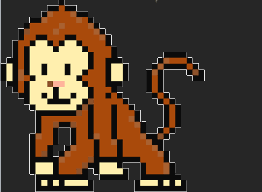
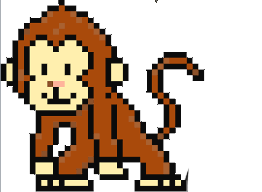
testing shootingEnemy

diff --git a/ArcadeGame/src/DrawingSurface.java b/ArcadeGame/src/DrawingSurface.java
@@ -22,15 +22,11 @@ import java.io.Serializable;
 public class DrawingSurface extends PApplet implements Serializable{
 
 	private Leaderboard leaderboard;
-	private BufferedWriter writer;
-	private FileWriter fileWriter; 
-	private Collider collider1;
 	private MobileEnemy mobileEnemy;
 	private ShootingPlayer player;
 	private Lava lava;
 	private Barrel barrel; 
-	private MobileEnemy enemy1;
-	private ShootingEnemy enemy2;
+	private ShootingEnemy shootingEnemy;
 	private SideShooter sideShooter;
 	private Boolean tester = false;
 	ArrayList<Collider> bullets;
@@ -43,13 +39,14 @@ public class DrawingSurface extends PApplet implements Serializable{
 		setup();
 	}
 	public void setup() {
-		player = new ShootingPlayer(10,100,100,110d,152d,0,10,3000);
+		player = new ShootingPlayer(10,100,100,131d,96d,0,10,3000);
 		lava = new Lava(0, 0, 300, 650, 100, 0.1);
 		barrel = new Barrel(10,300,300,500,50,0,0);
 		leaderboard = new Leaderboard();
 		keysPressed = new boolean[4];
 		mobileEnemy = new MobileEnemy(10d, 400d, 150d, 0d, 150d, -5d, 0d,(int)424d/4, (int)464d/4, 1);
-		sideShooter = new SideShooter(100,200,70,100,100,1);
+		sideShooter = new SideShooter(100,200,7000,100,100,1); // TODO change bulletfrequency back to lower
+		shootingEnemy = new ShootingEnemy(10d, 200d, 10d, 131d, 96d);
 		bullets = new ArrayList<>();
 		gamePieces = new ArrayList<Collider>();
 		playerPieces = new ArrayList<Collider>();
@@ -57,25 +54,20 @@ public class DrawingSurface extends PApplet implements Serializable{
 		gamePieces.add(barrel);
 		gamePieces.add(mobileEnemy);
 		gamePieces.add(sideShooter);
-		try {
-			fileWriter = new FileWriter("data/HighScores.txt", true);
-			writer = new BufferedWriter(fileWriter);
-		} catch (IOException ioe) {
-            ioe.printStackTrace();
-        }
 	}
 	
 	
 	public void draw() {
-	
+		
+
 		background(50);
 		
 		leaderboard.draw(this);
 		if(time%sideShooter.bulletFrequency == 0) {
+			shootingEnemy.startDropping(this);
 			bullets.add(sideShooter.shoot());
 			System.out.println("shooting");
 		}
-		//System.out.println(mobileEnemy.getHealth());
 		for (int i = 0; i < bullets.size(); i++) {
 			Collider bullet = bullets.get(i);
 			if (bullet.getX() <= width && bullet.getX() >= 0 && bullet.getY() <= height && bullet.getY() >= 0 && bullet.getHealth() > 0) {
@@ -88,7 +80,6 @@ public class DrawingSurface extends PApplet implements Serializable{
 				bullets.remove(i);
 			}
 		}
-//		System.out.println(bullets);	
 		
 		for (int i = 0; i < gamePieces.size(); i++) {
 			if (gamePieces.get(i).getHealth() <= 0) {
@@ -100,34 +91,20 @@ public class DrawingSurface extends PApplet implements Serializable{
 				
 			} else {
 				gamePieces.get(i).draw(this);
-				//if (gamePieces.get(i) instanceof MobileEnemy) {
 				gamePieces.get(i).act(gamePieces);
-				//}
 			}
 		}
-//		System.out.println(gamePieces);
 
 		if(mobileEnemy.getHealth() <= 0 && !tester)
 		{
-			promptLeaderboard(); 
 			tester = true;
-//			mobileEnemy.changeH ealth(20);
 		}
+		
+		lava.draw(this);
 		move();
 		time++;
 	}
 	
-	public void promptLeaderboard()
-	{
-		try {
-			fileWriter.append("1 ");
-			fileWriter.close();
-		 } catch (IOException ioe) {
-	            ioe.printStackTrace();
-	        }
-		
-		leaderboard.readData();
-	}
 	
 	public void mousePressed() {
 		Bullet b = player.shoot(mouseX, mouseY);

diff --git a/ArcadeGame/src/enemies/ShootingEnemy.java b/ArcadeGame/src/enemies/ShootingEnemy.java
@@ -3,26 +3,25 @@ import java.util.ArrayList;
 import java.util.Timer;
 import java.util.TimerTask;
 
+import core.Bullet;
 import core.Collider;
 import processing.core.PApplet;
 import processing.core.PImage;
 
 public class ShootingEnemy extends Collider{
 	private Timer shootRate; 
-	private Collider projectile;
 	private final long dropRate = 1000L;
 	private final String[] coconutImages = new String[] {"coconut.png"};
-	private final ArrayList<Collider> coconuts;
+	private final ArrayList<Bullet> coconuts;
 	
 	
-	public ShootingEnemy(int health, double x, double y, int width, int height, double projectileVX, double projectileVY) {
-		super(new String[] {"monkey.png"}, health, x, y, width, height, 0, 0);
+	public ShootingEnemy(double health, double x, double y, double width, double height) {
+		super(new String[] {"assets/ShootingEnemy/Monkey.png"}, health, x, y, width, height, 0, 0);
 		
-		projectile = new Collider(coconutImages, health, x, y, width, height, projectileVX, projectileVY);
 		
 		shootRate = new Timer();	
 		
-		coconuts = new ArrayList<Collider>();
+		coconuts = new ArrayList<Bullet>();
 	}
 	
 	public void startDropping(PApplet marker)
@@ -37,12 +36,12 @@ public class ShootingEnemy extends Collider{
 	    shootRate.schedule(task, dropRate);
 	}
 	
-	 public void draw(PApplet marker) {
-		Collider newProjectile = new Collider(coconutImages, projectile.getHealth(), projectile.getX(), projectile.getY(), projectile.getWidth(), projectile.getHeight(), projectile.getVX(), projectile.getVY());
-     	
-		coconuts.add(newProjectile); 
+	 public void draw(PApplet marker) {    
+		super.draw(marker);
+		Bullet newBullet = new Bullet(getX(), getY(), "ShootingEnemy");
+		coconuts.add(newBullet); 
 		
-		for(Collider coconut: coconuts)
+		for(Bullet coconut: coconuts)
 		{
 			coconut.draw(marker);
 		}

diff --git a/ArcadeGame/src/players/ShootingPlayer.java b/ArcadeGame/src/players/ShootingPlayer.java
@@ -10,7 +10,7 @@ public class ShootingPlayer extends Player{
 	double defaultVy;
 	public ShootingPlayer(double health, double x, double y, double width, double height, double vx,
 			double vy, double reloadTime) {
-		super(new String[] {"assets/ShootingEnemy/monkey.png"}, health, x, y, width, height, vx, vy,reloadTime);
+		super(new String[] {"assets/ShootingEnemy/Monkey.png"}, health, x, y, width, height, vx, vy,reloadTime);
 		defaultVx = vx;
 		defaultVy = vy;
 		jumpHeight = 20;

diff --git a/ArcadeGame/src/obstacles/MovingPlatform.java b/ArcadeGame/src/obstacles/MovingPlatform.java
@@ -1,7 +1,7 @@
 package obstacles;
 public class MovingPlatform extends Platform {
 
-	public MovingPlatform(String[] images, double x, double y, double width, double height, boolean doesDamage, double vx, doub) {
+	public MovingPlatform(String[] images, double x, double y, double width, double height, boolean doesDamage, double vx) {
 		super(images, x, y, width, height, doesDamage);
 		// TODO Auto-generated constructor stub
 	}

diff --git a/ArcadeGame/src/core/Bullet.java b/ArcadeGame/src/core/Bullet.java
@@ -2,6 +2,7 @@ package core;
 import java.util.Arrays;
 
 import enemies.MobileEnemy;
+import enemies.SideShooter;
 import players.Player;
 
 public class Bullet extends Collider
@@ -27,7 +28,7 @@ public class Bullet extends Collider
 		} else {
 			if (collider instanceof Player) {
 				collider.changeHealth(-1);
-			} else {
+			} else if (collider instanceof SideShooter){
 				return 0.0;
 			}
 		}
